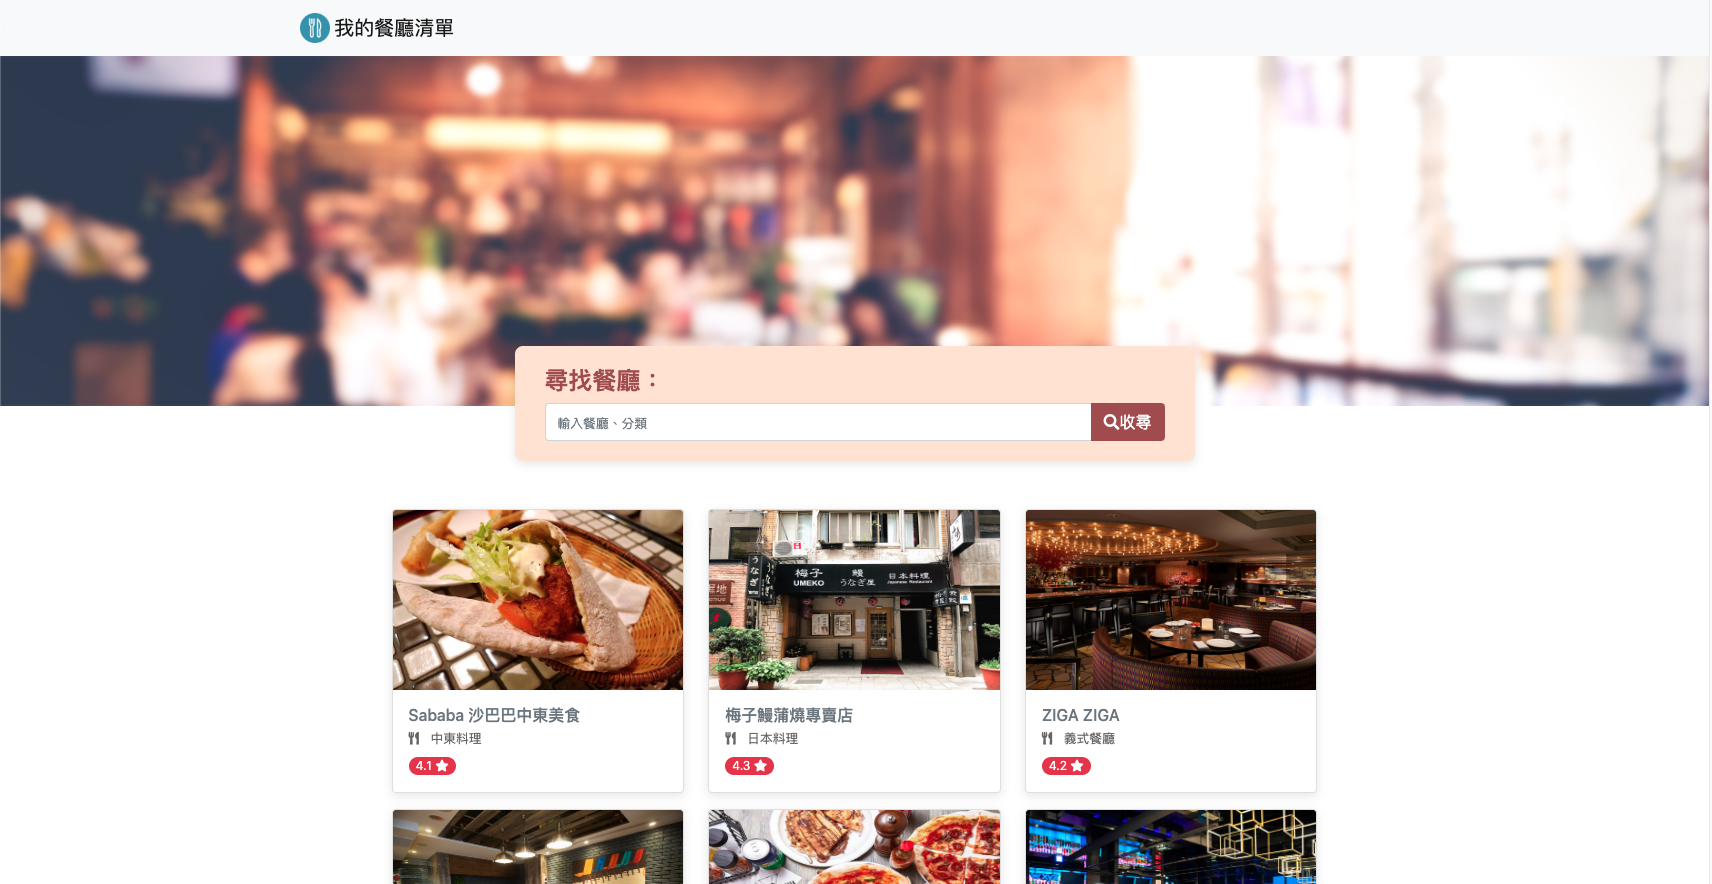
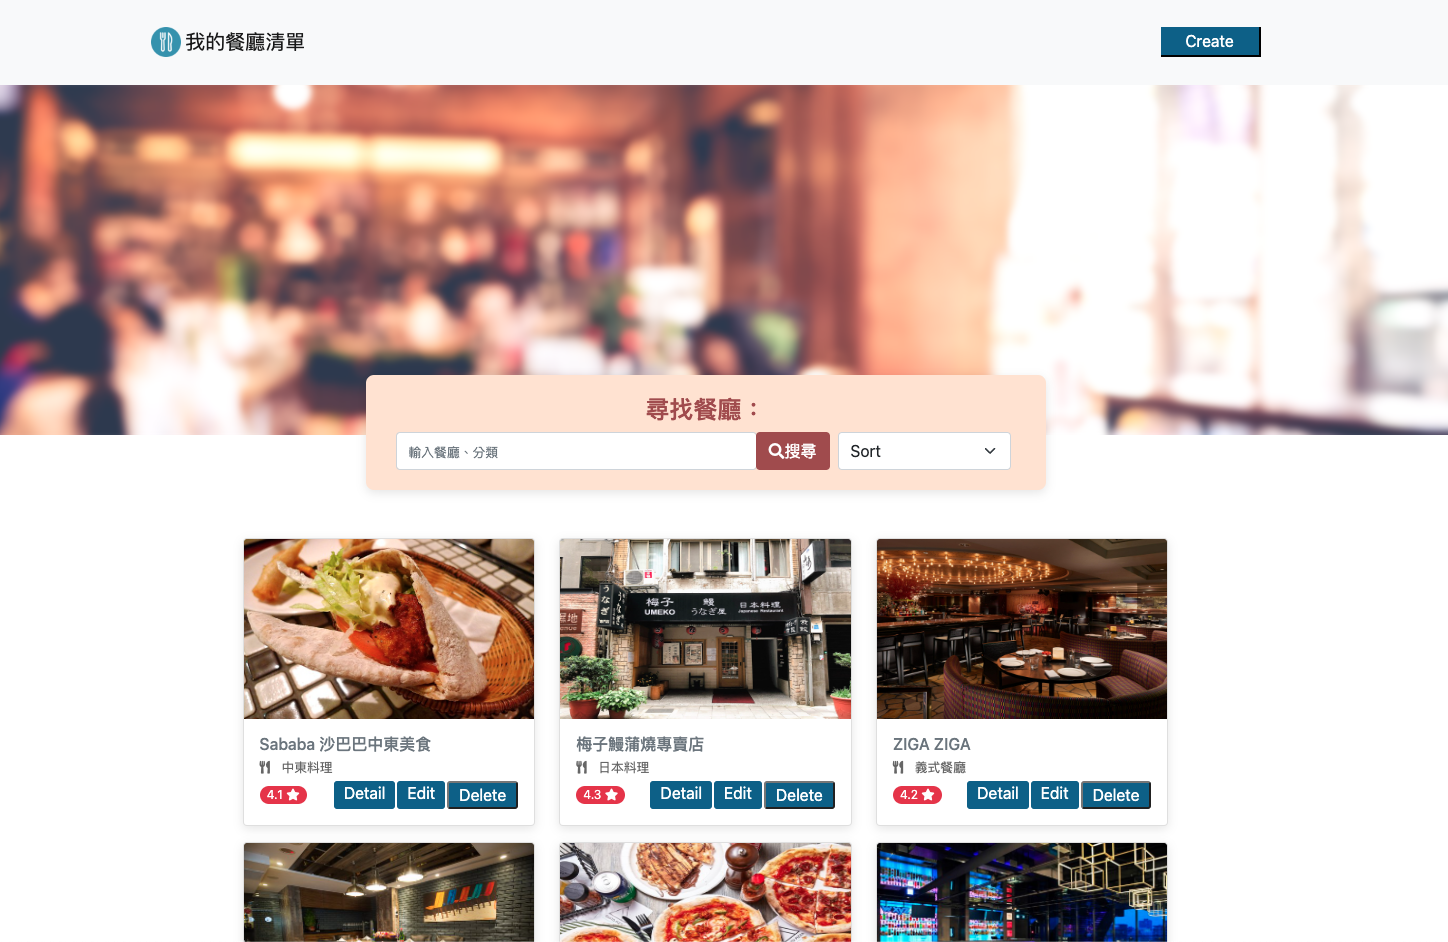
feat: update readme.md

diff --git a/README.md b/README.md
@@ -1,11 +1,11 @@
 # 我的餐廳清單
 ### 介紹
-可以瀏覽自己收藏的餐廳、搜尋餐廳及餐廳詳細資料
+可以瀏覽新增自己收藏的餐廳、搜尋餐廳及餐廳詳細資料
 ![Restaurant](https://github.com/thpss91103/ResraurantList/blob/main/public/image/indexImg.png)
 ### 功能
 1. 首頁可以看到自己收藏的餐廳
 2. 右上角Create可以新增想收藏的餐廳
-3. 搜尋欄可以用關鍵字搜尋餐廳
+3. 搜尋欄可以用關鍵字搜尋餐廳及排序
 4. 點擊Detail可以看詳細資料
 5. 點擊Edit可以編輯餐廳資料
 6. 點擊Delete可以刪除餐廳
@@ -41,3 +41,4 @@ ctrl + c
 - MongoDB
 - Mongoose 5.9.7
 - Dotenv 16.0.3
+- Method-override 3.0.0
